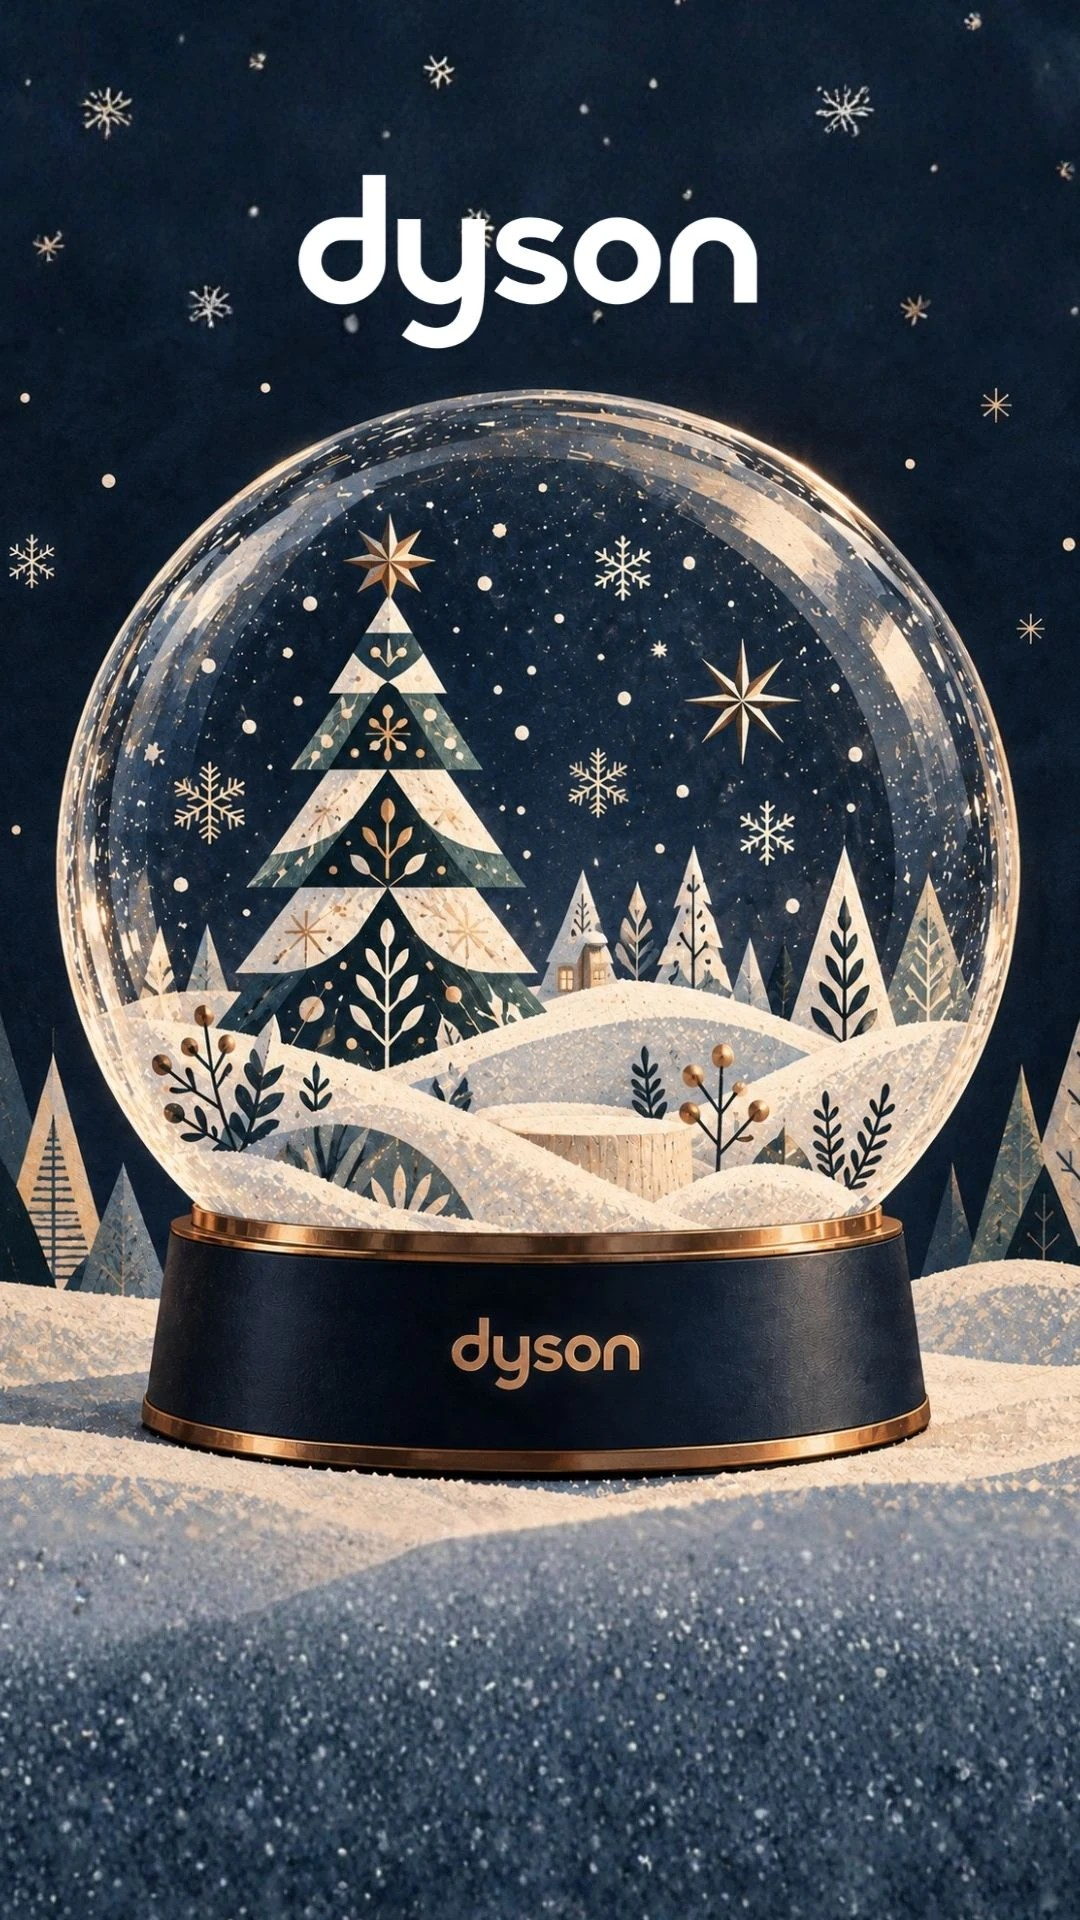
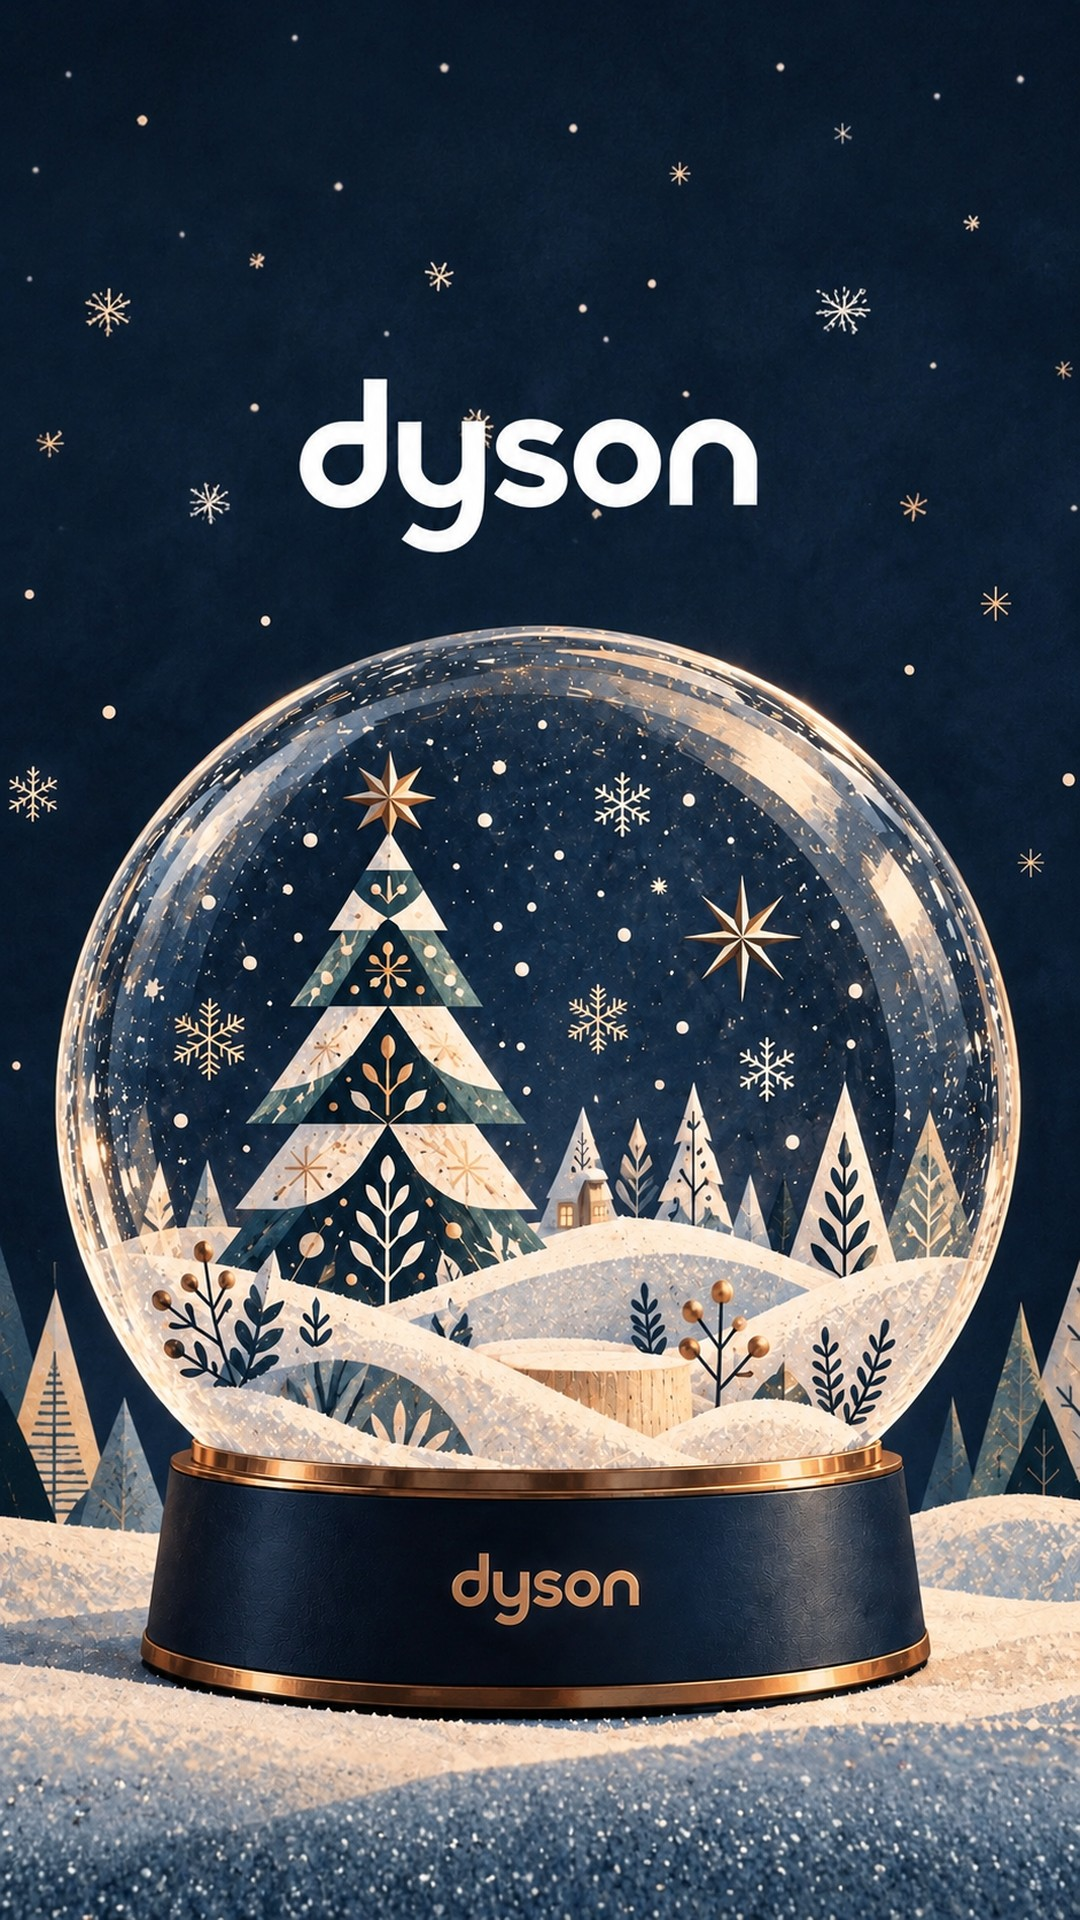
Add files via upload

diff --git a/2026-dyson-christmas/index.html b/2026-dyson-christmas/index.html
@@ -6,7 +6,7 @@
 <link rel="canonical" href="https://hengstyle-omo.github.io/campaigns/2026-dyson-christmas/">
 <meta property="og:type" content="website">
 <meta property="og:url" content="https://hengstyle-omo.github.io/campaigns/2026-dyson-christmas/">
-<meta property="og:image" content="https://hengstyle-omo.github.io/campaigns/2026-dyson-christmas/assets/images/scene/share-preview.jpg">
+<meta property="og:image" content="https://hengstyle-omo.github.io/campaigns/2026-dyson-christmas/assets/images/scene/share-preview.jpg?updated=20261123">
 <meta property="og:image:type" content="image/jpeg">
 <meta property="og:image:width" content="1080">
 <meta property="og:image:height" content="1920">

diff --git a/2026-dyson-christmas/UPDATE_NOTES.md b/2026-dyson-christmas/UPDATE_NOTES.md
@@ -180,3 +180,8 @@
 
 ## v133 r2｜分享縮圖修正
 補上 HTML og:image 已指定但先前正式包缺少的 assets/images/scene/share-preview.jpg，採迎賓 WebP 首畫格轉為 1080×1920 RGB JPEG。GA 與活動功能維持原設定。正式站原圖片 URL 檢查為 404；上傳後須確認 URL 成功讀取，既有 LINE 訊息縮圖不保證更新。
+
+## v133 r3｜分享縮圖上方留白
+- 分享縮圖的 logo 與水晶球構圖向下調整，上方增加深藍天空安全留白。採影像編輯產生修正版並轉為 1080×1920 RGB JPEG。
+- 更新 og:image 圖片快取參數，網站迎賓 WebP／MP4 未改；GA、GS 與活動功能未改。
+- 驗證圖片格式、大小、索引參照及差異 ZIP 完整性；分享平台實際裁切／快取仍以重新分享測試為準。
